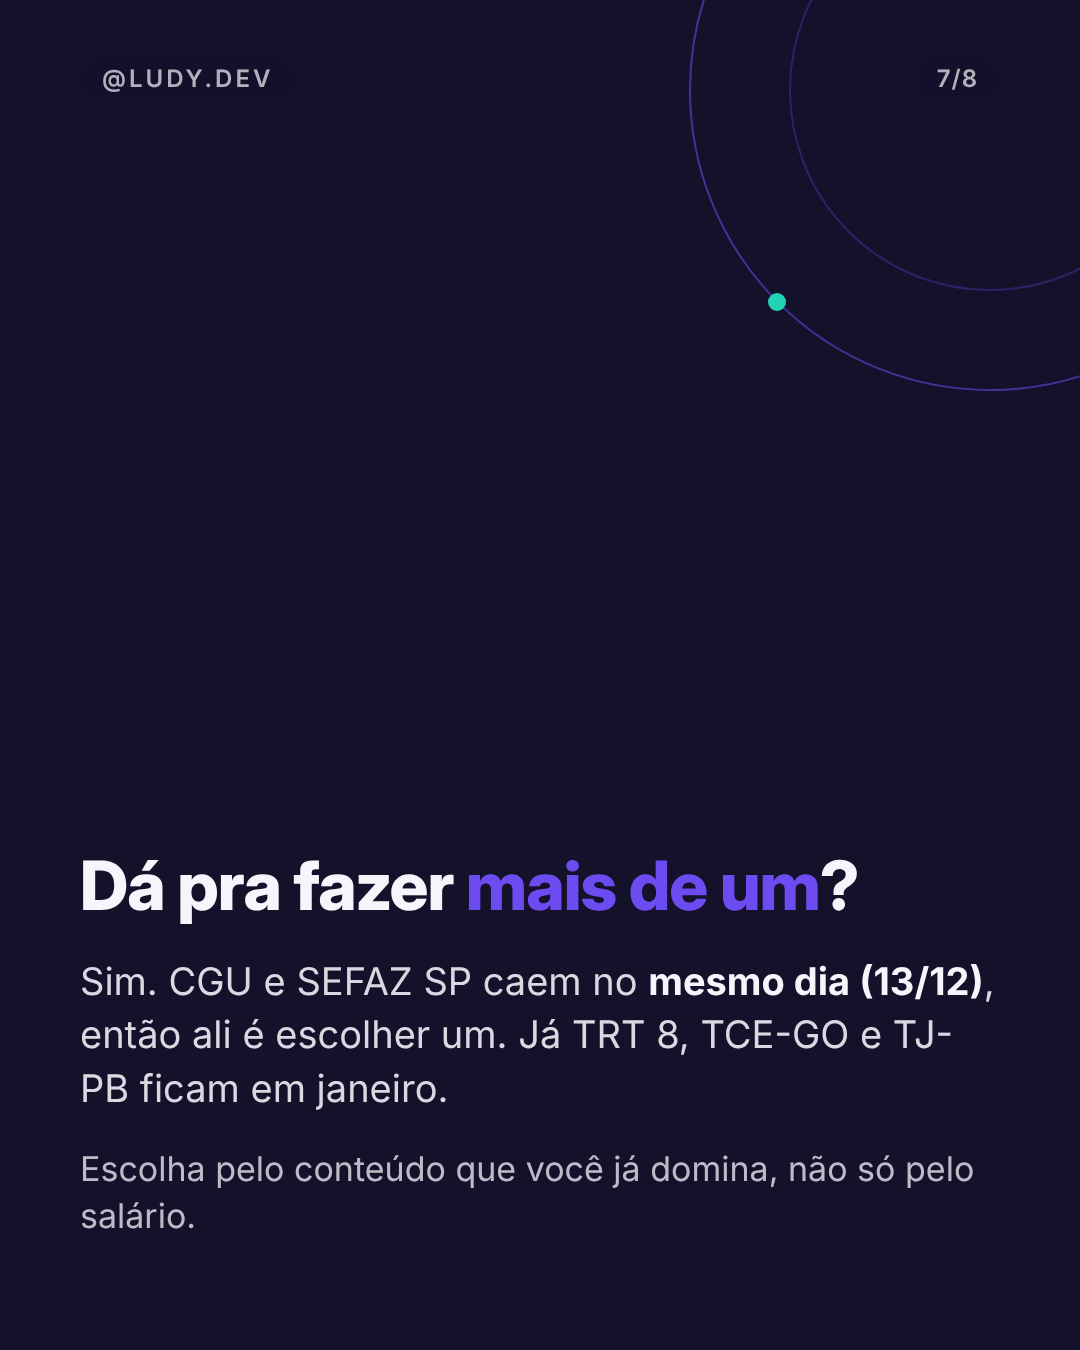
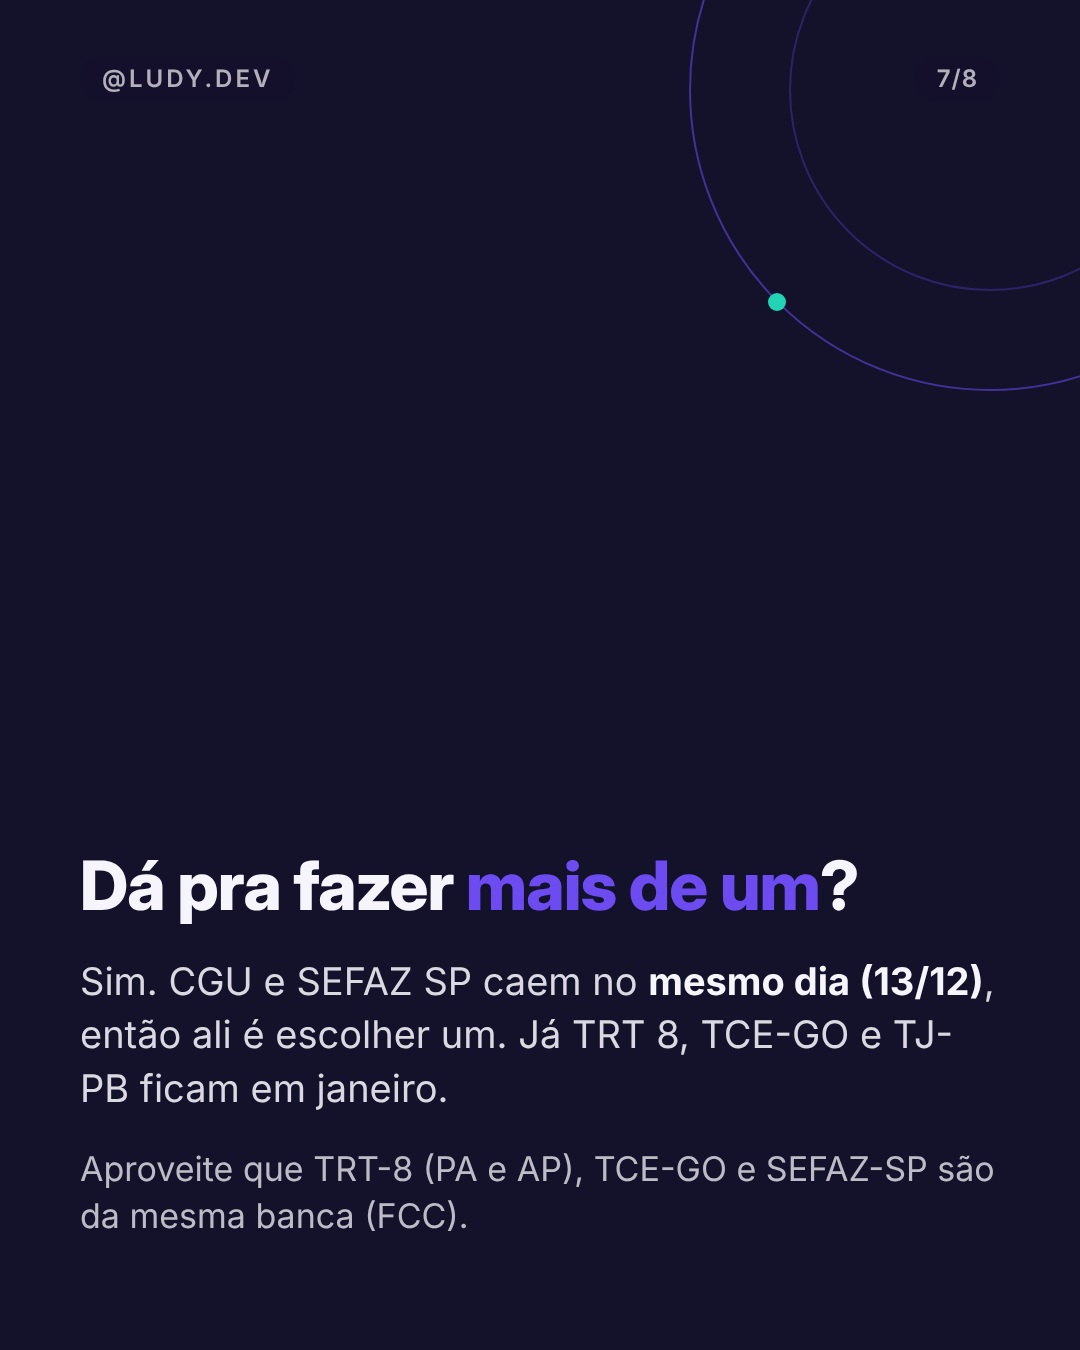
Post 5 concursos abertos: slide 7 destaca que TRT-8, TCE-GO e SEFAZ-SP são FCC
Claude-Session: https://claude.ai/code/session_017fo37zbht4x2d3pfMcu7xf

Changed region(s): [[0.0611, 0.84, 0.9167, 0.9333]]

diff --git a/_ferramentas/plano_10k.py b/_ferramentas/plano_10k.py
@@ -20,7 +20,7 @@ POSTS["21-18h"] = [
  page_a('<h2><span class="c">TRT 8</span> · fecha 05/11</h2>' + card("Analista Judiciário · TI", "Inicial: R$ 18.801,39", "Final de carreira: R$ 26.845,74") + card("Técnico Judiciário · TI", "Inicial: R$ 12.537,22", "Final de carreira: R$ 17.440,22") + card("Banca e prova", "FCC · 17/01/2027", "Belém, Marabá, Santarém e Macapá"), 4, T, minimal=True),
  page_a('<h2><span class="c">TCE-GO</span> · fecha 06/11</h2>' + card("Cargo", "Técnico de Controle Externo · TI", "10 vagas · nível médio") + card("Remuneração", "Inicial: R$ 11.862,19", "Final de carreira: ainda não divulgado") + card("Banca e prova", "FCC · 17/01/2027", "Em Goiânia (GO)"), 5, T, minimal=True),
  page_a('<h2><span class="c">TJ-PB</span> · fecha 18/11</h2>' + card("Cargo", "Analista Judiciário · TI", "20 vagas") + card("Remuneração", "Inicial: R$ 11.526,14", "Final de carreira: R$ 19.212,35") + card("Banca e prova", "FGV · 24/01/2027", "Na Paraíba"), 6, T, minimal=True),
- page_a('<h2>Dá pra fazer <span class="v">mais de um</span>?</h2><p>Sim. CGU e SEFAZ SP caem no <b>mesmo dia (13/12)</b>, então ali é escolher um. Já TRT 8, TCE-GO e TJ-PB ficam em janeiro.</p><p class="sub">Escolha pelo conteúdo que você já domina, não só pelo salário.</p>', 7, T, minimal=True),
+ page_a('<h2>Dá pra fazer <span class="v">mais de um</span>?</h2><p>Sim. CGU e SEFAZ SP caem no <b>mesmo dia (13/12)</b>, então ali é escolher um. Já TRT 8, TCE-GO e TJ-PB ficam em janeiro.</p><p class="sub">Aproveite que TRT-8 (PA e AP), TCE-GO e SEFAZ-SP são da mesma banca (FCC).</p>', 7, T, minimal=True),
  page_a('<h2>Salva pra não perder os <span class="c">prazos</span>.</h2><p>E manda pra aquele amigo de TI que vive dizendo que um dia vai estudar pra concurso.</p>' + seguir(), 8, T, minimal=True),
 ]
 
